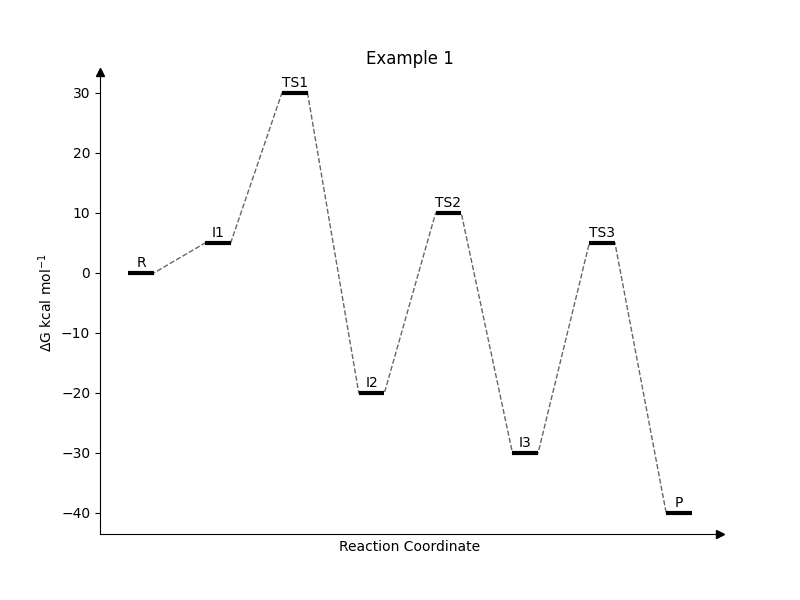
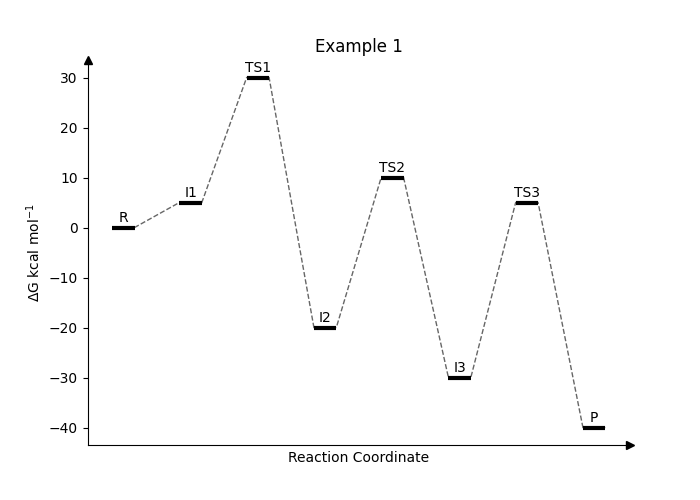
Change default plot size and update examples

diff --git a/path.py b/path.py
@@ -2,7 +2,7 @@ import matplotlib.pyplot as plt
 import matplotlib.patches as patches
 from matplotlib.path import Path
 
-def plot_reaction_profile(energies, labels=None, title=None, figsize=(8,6), save_file=None, show_plot=True,
+def plot_reaction_profile(energies, labels=None, title=None, figsize=(7,5), save_file=None, show_plot=True,
                           label_offset=0.5, label_fontweight="normal", label_fontsize=10, x_margin=0.05,
                           y_margin=0.05, x_label="Reaction Coordinate", x_label_fontweight="normal", x_label_fontsize=10, x_label_color="black",
                           y_label=r"$\Delta$G kcal mol$^{-1}$", y_label_fontweight="normal", y_label_fontsize=10, y_label_color="black", point_color="black",

diff --git a/README.md b/README.md
@@ -29,7 +29,7 @@ path.plot_reaction_profile(energies, labels=labels, label_fontweight="bold", tit
 | energies            | List of energies (list of floats)                                 | -                            |
 | labels              | List of labels (list of strings)                                  | None                         |
 | title               | Title of plot (string)                                            | None                         |
-| figsize             | Size of figure (tuple (width,height) in inches)                   | (8,6)                        |
+| figsize             | Size of figure (tuple (width,height) in inches)                   | (7,5)                        |
 | save_file           | Name of image to be saved (string) - Will not save if None        | None                         |
 | show_plot           | Whether to show plot (boolean)                                    | True                         |
 | label_offset        | How much to offset labels from point (float)                      | 0.5                          |
